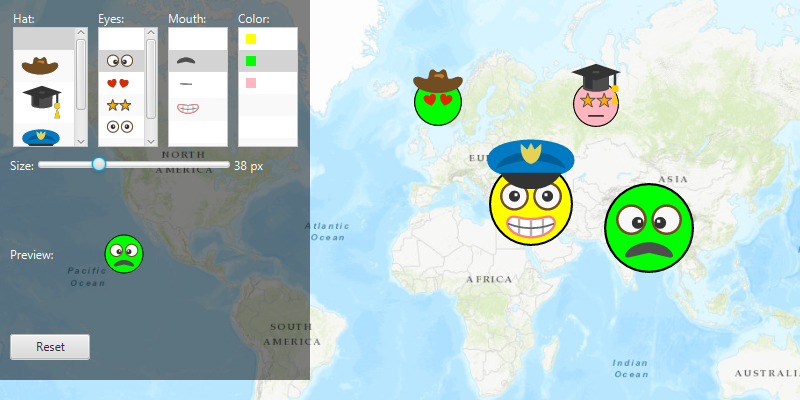
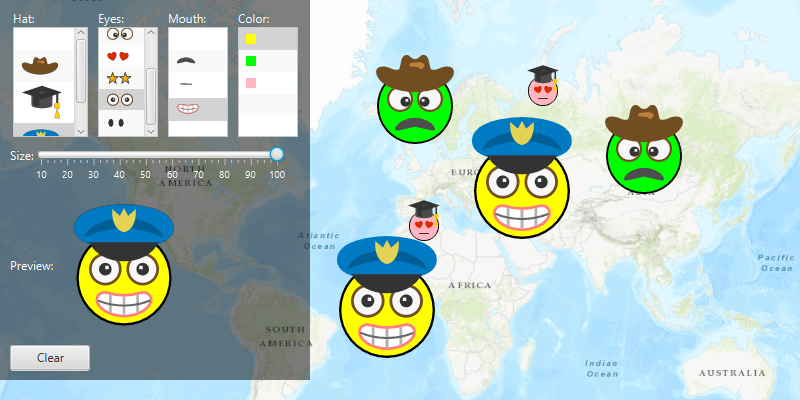
implement review changes

diff --git a/symbology/read-symbols-from-mobile-style-file/src/main/java/com/esri/samples/read_symbols_from_mobile_style_file/ReadSymbolsFromMobileStyleFileController.java b/symbology/read-symbols-from-mobile-style-file/src/main/java/com/esri/samples/read_symbols_from_mobile_style_file/ReadSymbolsFromMobileStyleFileController.java
@@ -24,17 +24,13 @@ import javafx.beans.value.ChangeListener;
 import javafx.fxml.FXML;
 import javafx.geometry.Point2D;
 import javafx.scene.control.Alert;
-import javafx.scene.control.ContentDisplay;
 import javafx.scene.control.Label;
-import javafx.scene.control.ListCell;
 import javafx.scene.control.ListView;
 import javafx.scene.control.Slider;
 import javafx.scene.image.Image;
 import javafx.scene.image.ImageView;
 import javafx.scene.input.MouseButton;
 import javafx.scene.input.MouseEvent;
-import javafx.scene.layout.HBox;
-import javafx.scene.shape.Rectangle;
 
 import com.esri.arcgisruntime.concurrent.ListenableFuture;
 import com.esri.arcgisruntime.geometry.Point;
@@ -44,7 +40,6 @@ import com.esri.arcgisruntime.mapping.Basemap;
 import com.esri.arcgisruntime.mapping.view.Graphic;
 import com.esri.arcgisruntime.mapping.view.GraphicsOverlay;
 import com.esri.arcgisruntime.mapping.view.MapView;
-import com.esri.arcgisruntime.symbology.ColorUtil;
 import com.esri.arcgisruntime.symbology.MultilayerPointSymbol;
 import com.esri.arcgisruntime.symbology.Symbol;
 import com.esri.arcgisruntime.symbology.SymbolStyle;
@@ -60,7 +55,7 @@ public class ReadSymbolsFromMobileStyleFileController {
   @FXML private ListView<Integer> colorSelectionListView;
   @FXML private Slider sizeSlider;
   @FXML private Label sizeLabel;
-  @FXML private HBox symbolPreviewHBox;
+  @FXML private ImageView symbolPreview;
 
   private GraphicsOverlay graphicsOverlay;
   private MultilayerPointSymbol faceSymbol;
@@ -148,8 +143,6 @@ public class ReadSymbolsFromMobileStyleFileController {
                   case "Mouth":
                     mouthSelectionListView.getItems().add(symbolStyleSearchResult);
                     break;
-                  default:
-                    break;
                 }
               });
 
@@ -229,33 +222,17 @@ public class ReadSymbolsFromMobileStyleFileController {
    */
   private void updateSymbolPreview(MultilayerPointSymbol multilayerPointSymbol) {
     // remove the previously displayed image view
-    symbolPreviewHBox.getChildren().clear();
+    symbolPreview.setImage(null);
 
     // create an image and image view from the symbol
     ListenableFuture<Image> symbolImageFuture = multilayerPointSymbol.createSwatchAsync(0x00000000, 1);
     try {
-      Image symbolImage = symbolImageFuture.get();
-      ImageView symbolImageView = new ImageView(symbolImage);
       // display the image view in the preview area
-      symbolPreviewHBox.getChildren().add(symbolImageView);
+      symbolPreview.setImage(symbolImageFuture.get());
 
     } catch (InterruptedException | ExecutionException e) {
       new Alert(Alert.AlertType.ERROR, "Error creating preview ImageView from provided MultilayerPointSymbol" + e.getMessage()).show();
     }
-  }
-
-  /**
-   * Updates the size of the symbol preview and the label when the slider is interacted with.
-   */
-  @FXML
-  private void updateSymbolSize() {
-    // get the slider value and convert to a string
-    String sizeValue = Integer.toString((int) sizeSlider.getValue());
-    // display the value in the label
-    sizeLabel.setText(sizeValue + " px");
-
-    // update the preview
-    buildCompositeSymbol();
   }
 
   /**
@@ -278,7 +255,7 @@ public class ReadSymbolsFromMobileStyleFileController {
    * Clears all the graphics from the graphics overlay.
    */
   @FXML
-  private void resetView() {
+  private void clearView() {
     graphicsOverlay.getGraphics().clear();
   }
 
@@ -292,65 +269,4 @@ public class ReadSymbolsFromMobileStyleFileController {
     }
   }
 
-  /**
-   * Shows the available symbol of the SymbolStyleSearchResult in the symbol selection list view.
-   */
-  private class SymbolLayerInfoListCell extends ListCell<SymbolStyleSearchResult> {
-
-    private SymbolLayerInfoListCell() {
-      // set the cell to display only a graphic
-      setContentDisplay(ContentDisplay.GRAPHIC_ONLY);
-    }
-
-    @Override
-    protected void updateItem(SymbolStyleSearchResult item, boolean empty) {
-      super.updateItem(item, empty);
-
-      if (item == null || empty) {
-        // if the item in the list view is an empty item, show nothing
-        setGraphic(null);
-      } else {
-        // get the symbol from the list view entry, and create an image from it
-        ListenableFuture<Image> symbolImageFuture = item.getSymbol().createSwatchAsync(0x00000000, 1);
-        try {
-          // get the resulting image
-          Image symbolImage = symbolImageFuture.get();
-          // create and image view and display it in the cell
-          ImageView symbolImageView = new ImageView(symbolImage);
-          setGraphic(symbolImageView);
-        } catch (InterruptedException | ExecutionException e) {
-          new Alert(Alert.AlertType.ERROR, "Error creating preview image for symbol in mobile style file" + e.getMessage()).show();
-        }
-      }
-    }
-  }
-
-  /**
-   * Shows the colors in the color selection list view.
-   */
-  private class ColorListCell extends ListCell<Integer> {
-    private final Rectangle rectangle;
-
-    private ColorListCell() {
-      // set the cell to display only a graphic
-      setContentDisplay(ContentDisplay.GRAPHIC_ONLY);
-      // create a rectangle to display in the cell
-      rectangle = new Rectangle(10, 10);
-    }
-
-    @Override
-    protected void updateItem(Integer item, boolean empty) {
-      super.updateItem(item, empty);
-
-      if (item == null || empty) {
-        // if the item in the list view is an empty item, show nothing
-        setGraphic(null);
-      } else {
-        // convert the 0xAARRGGBB format to a Color object and apply it to the rectangle fill
-        rectangle.setFill(ColorUtil.argbToColor(item));
-        // set the rectangle to be displayed in the cell
-        setGraphic(rectangle);
-      }
-    }
-  }
 }

diff --git a/symbology/read-symbols-from-mobile-style-file/src/main/java/com/esri/samples/read_symbols_from_mobile_style_file/SymbolLayerInfoListCell.java b/symbology/read-symbols-from-mobile-style-file/src/main/java/com/esri/samples/read_symbols_from_mobile_style_file/SymbolLayerInfoListCell.java
@@ -1,0 +1,47 @@
+package com.esri.samples.read_symbols_from_mobile_style_file;
+
+import java.util.concurrent.ExecutionException;
+
+import javafx.scene.control.Alert;
+import javafx.scene.control.ContentDisplay;
+import javafx.scene.control.ListCell;
+import javafx.scene.image.Image;
+import javafx.scene.image.ImageView;
+
+import com.esri.arcgisruntime.concurrent.ListenableFuture;
+import com.esri.arcgisruntime.symbology.SymbolStyleSearchResult;
+
+/**
+ * Shows the available symbol of the SymbolStyleSearchResult in the symbol selection list view.
+ */
+class SymbolLayerInfoListCell extends ListCell<SymbolStyleSearchResult> {
+
+  SymbolLayerInfoListCell() {
+    // set the cell to display only a graphic
+    setContentDisplay(ContentDisplay.GRAPHIC_ONLY);
+  }
+
+  @Override
+  protected void updateItem(SymbolStyleSearchResult item, boolean empty) {
+    super.updateItem(item, empty);
+
+    if (item == null || empty) {
+      // if the item in the list view is an empty item, show nothing
+      setGraphic(null);
+    } else {
+      // get the symbol from the list view entry, and create an image from it
+      ListenableFuture<Image> symbolImageFuture = item.getSymbol().createSwatchAsync(0x00000000, 1);
+      symbolImageFuture.addDoneListener(() -> {
+        try {
+          // get the resulting image
+          Image symbolImage = symbolImageFuture.get();
+          // create and image view and display it in the cell
+          ImageView symbolImageView = new ImageView(symbolImage);
+          setGraphic(symbolImageView);
+        } catch (InterruptedException | ExecutionException e) {
+          new Alert(Alert.AlertType.ERROR, "Error creating preview image for symbol in mobile style file" + e.getMessage()).show();
+        }
+      });
+    }
+  }
+}

diff --git a/symbology/read-symbols-from-mobile-style-file/src/main/java/com/esri/samples/read_symbols_from_mobile_style_file/ColorListCell.java b/symbology/read-symbols-from-mobile-style-file/src/main/java/com/esri/samples/read_symbols_from_mobile_style_file/ColorListCell.java
@@ -1,0 +1,36 @@
+package com.esri.samples.read_symbols_from_mobile_style_file;
+
+import javafx.scene.control.ContentDisplay;
+import javafx.scene.control.ListCell;
+import javafx.scene.shape.Rectangle;
+
+import com.esri.arcgisruntime.symbology.ColorUtil;
+
+/**
+ * Shows the colors in the color selection list view.
+ */
+class ColorListCell extends ListCell<Integer> {
+  private final Rectangle rectangle;
+
+  ColorListCell() {
+    // set the cell to display only a graphic
+    setContentDisplay(ContentDisplay.GRAPHIC_ONLY);
+    // create a rectangle to display in the cell
+    rectangle = new Rectangle(10, 10);
+  }
+
+  @Override
+  protected void updateItem(Integer item, boolean empty) {
+    super.updateItem(item, empty);
+
+    if (item == null || empty) {
+      // if the item in the list view is an empty item, show nothing
+      setGraphic(null);
+    } else {
+      // convert the 0xAARRGGBB format to a Color object and apply it to the rectangle fill
+      rectangle.setFill(ColorUtil.argbToColor(item));
+      // set the rectangle to be displayed in the cell
+      setGraphic(rectangle);
+    }
+  }
+}

diff --git a/symbology/read-symbols-from-mobile-style-file/README.md b/symbology/read-symbols-from-mobile-style-file/README.md
@@ -14,16 +14,16 @@ Select a symbol and a color from each of the category lists to create an emoji. 
 
 ## How it works
 
-1. Create a new `SymbolStyle` from a stylx file, and load it: `symbolStyle.loadAsync()`.
+1. Create a new `SymbolStyle` from a stylx file, and load it.
 2. Get a set of default search parameters, `symbolStyle.getDefaultSearchParametersAsync()`, and use these to retrieve a list of all symbols within the style file: `symbolStyle.searchSymbolsAsync(defaultSearchParameters)`.
 3. Get the `SymbolStyleSearchResult`, which contains the symbols, as well as their names, keys, and categories.
-4. Use a `List` of keys of the desired symbols to build a composite symbol, `symbolStyle.emojiStyle.getSymbolAsync(symbolKeys)`.
-5. Get the resulting `MultilayerPointSymbol`, use it to create a `Graphic` and display it to the map.
+4. Use a `List` of keys of the desired symbols to build a composite symbol, `symbolStyle.getSymbolAsync(symbolKeys)`.
+5. Create a `Graphic` using the `MultilayerPointSymbol`.
 
 ## Relevant API
 
 * MultilayerPointSymbol
-* MultilayerSymbol.CreateSwatchAsync
+* MultilayerSymbol
 * SymbolLayer
 * SymbolStyle
 * SymbolStyleSearchParameters
